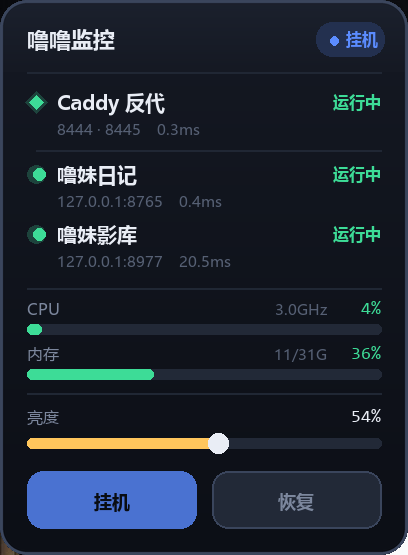
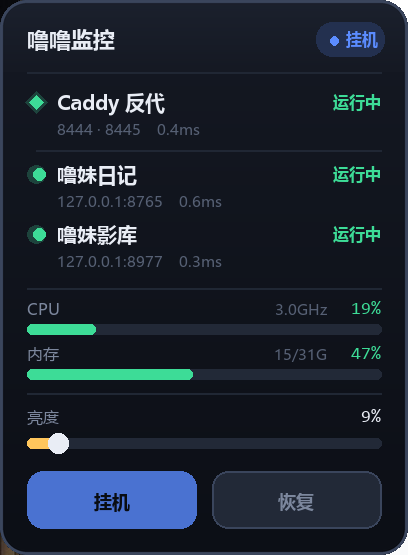
fix(widget): 修亮度滑杆拖动乱蹦
拖动时把手会在两个值之间来回跳，三个叠加的原因：

1. 回显覆盖乐观值（主因）。Brightness 线程每写完一次就把实际值回传，
   主线程 update 一合并就盖掉手势刚写的位置 —— 手推到 80% 时线程可能
   才写完 60%，把手被拽回 60%，下一次鼠标移动又推到 80。
   修法：每次意图编号（set 返回递增 _seq），回显带上写入时的序号，
   _poll 里 seq < _bright_seq 的过期回显直接丢。空闲回读也在读之前
   先取序号，避免把拖动前的旧值当成新值放过去。

2. 拖动时鼠标纵向漂出滑杆那 18px 窄带就返回 None，滑杆停止跟手。
   修法：_on_slider 加 sticky 参数，_on_drag 传 True，只把 x 夹回轨道两端。

3. 没人动时每 3 秒的空闲回读也会往回带，同 1 一起修掉。

验证：假 DDC 单测（60ms 写 + 30ms 快速推 5 次）确认过期回显被丢弃；
真实鼠标拖动 22%->86% 每步 25ms，16 步把手位置全部单调递增，
非单调回退 0 次。

diff --git a/lulu-watch/widget.py b/lulu-watch/widget.py
@@ -422,16 +422,20 @@ class Brightness(threading.Thread):
         self.stop_flag = False
         self._lock = threading.Lock()
         self._want = None
+        self._seq = 0
         self.mon = None
 
     def set(self, pct):
+        """记下用户想要的值，返回这次的序号。序号给主线程用来丢掉过期回显。"""
         with self._lock:
+            self._seq += 1
             self._want = max(0, min(100, int(pct)))
+            return self._seq
 
     def _take(self):
         with self._lock:
             w, self._want = self._want, None
-            return w
+            return w, self._seq
 
     def _peek(self):
         with self._lock:
@@ -445,13 +449,16 @@ class Brightness(threading.Thread):
         self.mon = mon
         last = None
         while not self.stop_flag:
-            want = self._take()
+            want, seq = self._take()
             if want is not None:
                 ok = set_brightness(mon, want)
                 cur = want if ok else brightness_percent(mon, fresh=True)
                 # 写太快会把 I2C 压满，留一点间隔
                 time.sleep(0.08)
             else:
+                # 序号要在读之前取：这次回读要 60ms，中途用户可能已经开始拖动，
+                # 读完之后再取序号会把「拖动前的旧值」错当成新值放过去
+                seq = self._seq
                 cur = brightness_percent(mon, fresh=True)
                 # 没人动滑杆就慢慢回读：用户按显示器上的实体按键改了也能跟上
                 for _ in range(30):
@@ -462,7 +469,9 @@ class Brightness(threading.Thread):
                     continue
             if cur is not None and cur != last:
                 last = cur
-                self.q.put({"bright": cur})
+                # 带上写入时的序号：主线程若已经收到更新的拖动，就丢掉这条过期回显，
+                # 否则手拖到 80 时线程才写完 60，回显会把把手拽回 60
+                self.q.put({"bright": cur, "bright_seq": seq})
 
 
 # ==================== 托盘图标 ====================
@@ -797,6 +806,7 @@ class Widget:
         self.buttons = {}
         self.slider = None
         self._slide = False
+        self._bright_seq = 0
         self._drag = None
         self._moved = False
         self._hover = None
@@ -869,13 +879,16 @@ class Widget:
                 return guid
         return None
 
-    def _on_slider(self, e):
-        """返回鼠标位置对应的亮度百分比；不在滑杆热区内返回 None"""
+    def _on_slider(self, e, sticky=False):
+        """返回鼠标位置对应的亮度百分比；不在滑杆热区内返回 None。
+
+        sticky=True 用在拖动过程中：这时候已经认定用户在拖滑杆，鼠标纵向
+        漂出那 18px 窄带不该让滑杆卡住，只把 x 夹回轨道两端。"""
         if not self.slider:
             return None
         lx, ly = e.x / SCALE, e.y / SCALE
         x1, y1, x2, y2 = self.slider
-        if not (y1 <= ly <= y2):
+        if not sticky and not (y1 <= ly <= y2):
             return None
         return max(0, min(100, round((lx - x1) * 100.0 / max(1, x2 - x1))))
 
@@ -905,7 +918,7 @@ class Widget:
 
     def _on_drag(self, e):
         if self._slide:
-            pct = self._on_slider(e)
+            pct = self._on_slider(e, sticky=True)
             if pct is not None:
                 self._apply_bright(pct)
             return
@@ -932,7 +945,7 @@ class Widget:
         self.data["bright"] = pct
         self._draw()
         try:
-            self.bright.set(pct)
+            self._bright_seq = self.bright.set(pct)
         except Exception:
             pass
 
@@ -993,10 +1006,16 @@ class Widget:
                 break
         while True:
             try:
-                self.data.update(self.bqueue.get_nowait())
-                got = True
+                msg = self.bqueue.get_nowait()
             except queue.Empty:
                 break
+            # 亮度线程的回显带序号：拖动时用户已经推到了更新的位置，
+            # 这条是旧值（线程写完才知道结果），丢掉才不会把把手拽回去
+            seq = msg.get("bright_seq")
+            if seq is not None and seq < self._bright_seq:
+                continue
+            self.data.update(msg)
+            got = True
         while True:                      # 托盘线程投递的动作，在主线程执行
             try:
                 fn = self.cmdq.get_nowait()

diff --git a/lulu-watch/README.md b/lulu-watch/README.md
@@ -106,6 +106,7 @@ python  widget.py --preview  :: 只渲染预览图 preview.png / preview_dark.pn
 - **托盘**：`pystray` 在独立线程跑消息循环。无边框窗口不在任务栏显示，一旦被别的窗口盖住就点不到，托盘图标是唯一的唤出入口。托盘回调不能直接碰 tk 控件（tk 非线程安全），统一投进 `queue`，由主线程 `_poll` 消费；菜单文本用 callable，每次弹出时实时求值，所以状态是活的。
 - **托盘图标兼作状态灯**：Caddy 或任一服务的存活状态一变，重画图标（三条色条由绿转红，上=Caddy、中=日记、下=影库），不用展开挂件也知道有没有东西挂了。
 - **亮度为什么单独一条线程**：`GetMonitorBrightness` / `SetMonitorBrightness` 走 DDC/CI，实测一次 **58–63ms**。在主线程里拖滑杆会一卡一卡的，所以亮度读写全交给 `Brightness` 线程：拖动时只把「最后一次意图」记下（`_want`），线程取走就写，写不完的中间值直接丢掉，不排队。界面先用乐观值跟着手走。
+- **拖动时为什么会「乱蹦」，以及怎么修的**：线程每写完一次都会把实际值回传主线程，主线程 `self.data.update()` 一合并就会覆盖乐观值。手推到 80% 时线程可能才写完 60%，回显把把手拽回 60%，下一次鼠标移动又推到 80% —— 看起来就是在 60/80 之间跳。修法是给每次意图编号（`Brightness.set()` 返回递增的 `_seq`），回显带上写入时的序号，主线程 `_poll` 里 `if seq < self._bright_seq: continue` 丢掉过期回显。另外两处配套：拖动中 `_on_slider(e, sticky=True)` 不再要求鼠标留在那 18px 窄带内（否则手一上下偏滑杆就卡住），只把 x 夹到轨道两端；空闲回读也在读之前先取序号，避免把「拖动前的旧值」错当成新值放过去。
 - **怎么认出「2K 那台」**：不按当前分辨率认。4K 那台（`\\.\DISPLAY1`，Mi Monitor，原生 3840×2160）平时被人为降到 2560×1440@160 跑，按当前分辨率筛会把两台都认成 2K。所以 `_native_size()` 逐条枚举 `EnumDisplaySettingsW` 的模式表取最大像素数，只有原生等于 `(2560, 1440)` 的才接受 —— 也就是 `\\.\DISPLAY5`（AOC Q27G1WG4）。**4K 那台连句柄都不打开**，从根上保证碰不到它。
 - **DDC 原始值不是百分比**：`GetMonitorBrightness` 给的是 `min..max` 区间的原始值，`brightness_percent()` 按 `mn..max` 归一化后再显示，别直接把原始值当 0~100。
 - **亮度回读是慢的**：没人动滑杆时线程每 3 秒回读一次，这样用户按显示器上的实体按键改了亮度，挂件也能跟上。拖动时完全不回读，只写。
@@ -118,7 +119,7 @@ python  widget.py --preview  :: 只渲染预览图 preview.png / preview_dark.pn
 - 切换电源方案本身不需要管理员权限，但如果目标方案被组策略锁定，`powercfg /setactive` 会静默失败，徽章会回读显示真实方案。
 - 探测是 TCP 握手，只能判断端口是否在监听，不代表服务内部逻辑健康；Caddy 同理，只看 8444/8445 在不在听，不代表证书和反代规则都对。
 - 亮度只对**支持 DDC/CI 的那台**有效。本机 2K 的 AOC 支持硬件调光（真的改背光、省电）；4K 的 Mi Monitor 走 DP 不响应 DDC/CI，所以挂件不控制它 —— 它原来的「调暗」是 Gamma 软件曲线，不省电、黑色发灰，挂件没有沿用那套。
-- DDC/CI 和显示器自带菜单、其他调光软件会互相抢：同时开两个程序写亮度，会出现「滑杆回弹」或「调了又被改回去」。用挂件调亮度时，建议关掉桌面上那个 `显示器亮度`（`BrightnessCtl.exe`）。
+- DDC/CI 和显示器自带菜单、其他调光软件会互相抢：同时开两个程序写亮度，会出现「滑杆回弹」或「调了又被改回去」。之前桌面上那个 `显示器亮度`（`BrightnessCtl.exe`）已经删掉，现在只有挂件在写这块屏。
 - 亮度滑杆只在识别到显示器时才出现；识别不到（`find_brightness_monitor` 返回 `None`）时显示「不可用 / 这台显示器没响应 DDC/CI」，不会假装能调。
 - 启动异常写到同目录 `error.log`；托盘初始化失败（例如没装 pystray）写 `tray-error.log`，挂件本体照常可用。
 
